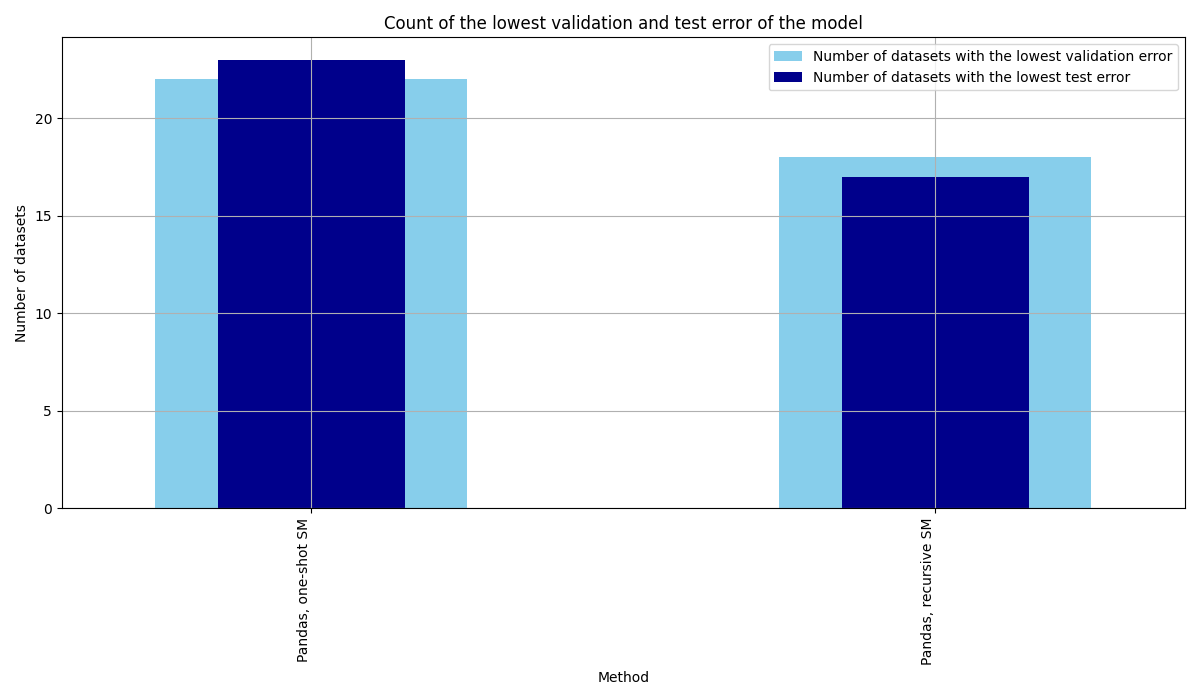
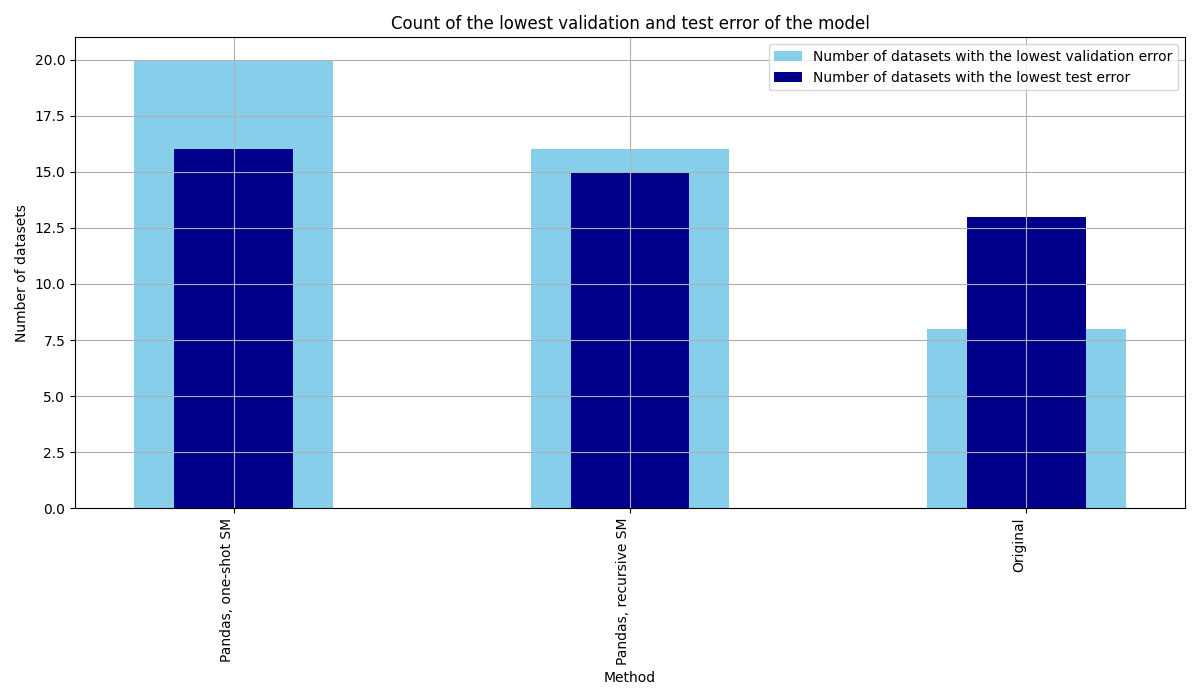
Add original to sm comparison

diff --git a/src/Result_Analysis/test_analysis/test_analysis.py b/src/Result_Analysis/test_analysis/test_analysis.py
@@ -580,8 +580,8 @@ def test_analysis():
     plot_boxplot_percentage_impr(baseline_col, df_pivot_test_pandas, "Test_only_pandas")
 
     # Drop everything but pandas columns to compare SM approaches
-    df_pivot_val_pandas = df_pivot_val_pandas[["Pandas, one-shot SM", "Pandas, recursive SM"]]
-    df_pivot_test_pandas = df_pivot_test_pandas[["Pandas, one-shot SM", "Pandas, recursive SM"]]
+    df_pivot_val_pandas = df_pivot_val_pandas[["Pandas, one-shot SM", "Pandas, recursive SM", "Original"]]
+    df_pivot_test_pandas = df_pivot_test_pandas[["Pandas, one-shot SM", "Pandas, recursive SM", "Original"]]
     # Plot again
     plot_count_best(df_pivot_val_pandas, df_pivot_test_pandas, "only_pandas_")
     plot_score_graph(dataset_list_wrapped, df_pivot_val_pandas, df_pivot_val_std, "Val_only_pandas")
